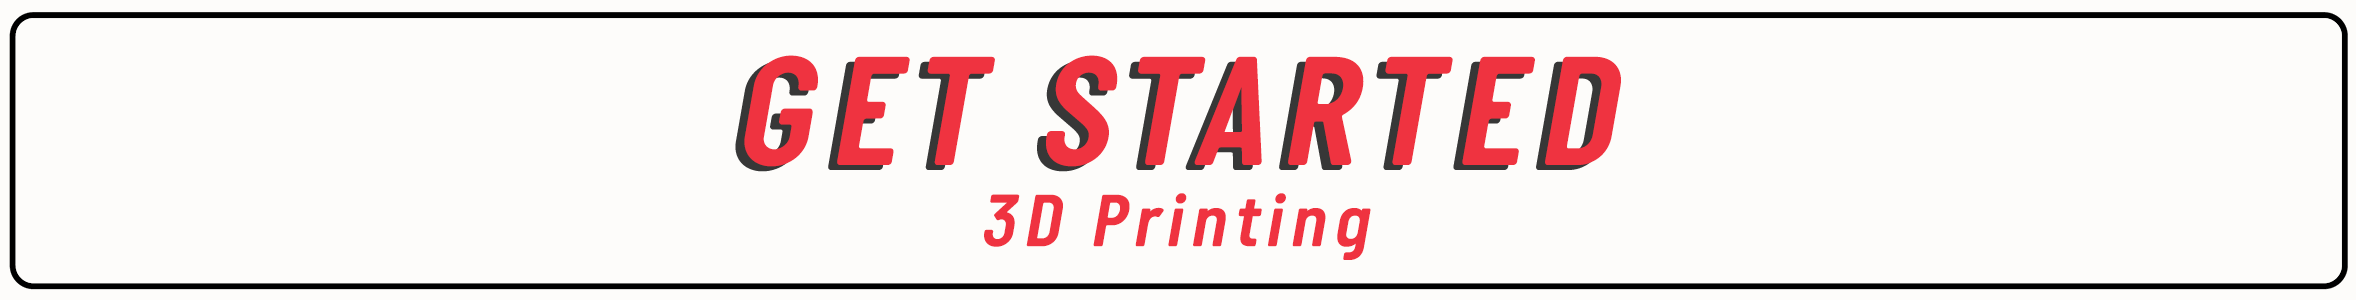
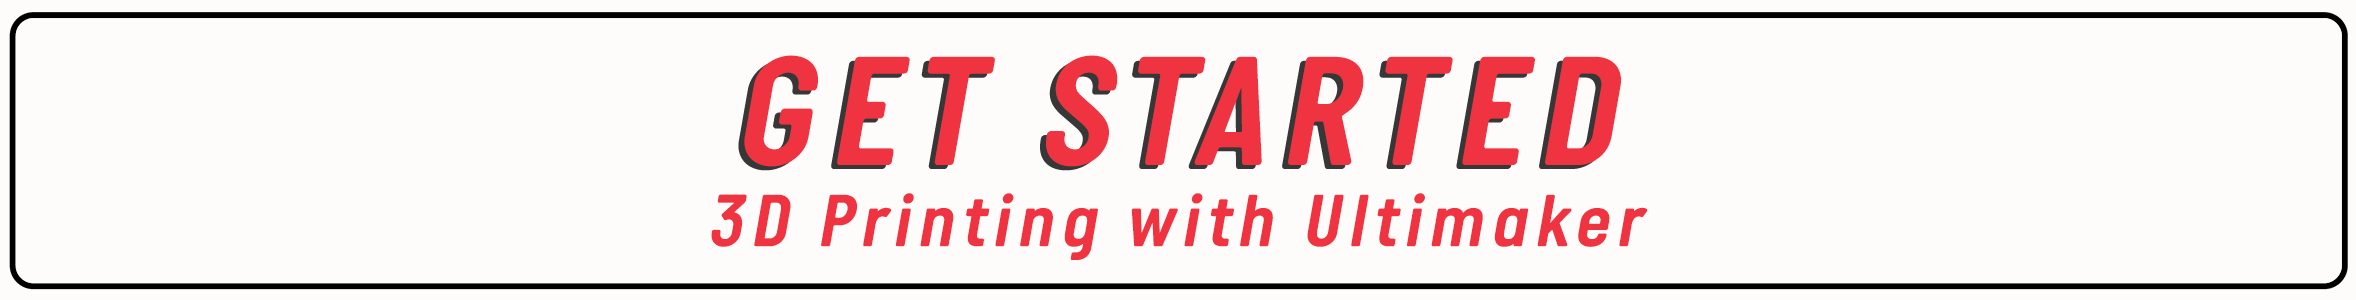
Updated with both 3d printer types

diff --git a/tutorial.html b/tutorial.html
@@ -352,7 +352,7 @@
                     
                     <div class="portfolio-item">
                         <a href="machinePage_Textile.html">
-                            <img class="img-portfolio img-responsive" src="./img/tutorial/getStarted_Textile.png">
+                            <img class="img-portfolio img-responsive" src="./img/tutorial/getStarted_Textil.png">
                         </a>
                     </div>
                     
@@ -394,10 +394,18 @@
                     <hr class="small">
                     
                     <div class="portfolio-item">
-                        <a href="machinePage_Laser.html">
+                        <a href="machinePage_3DPrint_Ultimaker.html">
                             <img class="img-portfolio img-responsive" src="./img/tutorial/getStarted_3DPrint.png">
                         </a>
                     </div>
+                    
+                    <div class="portfolio-item">
+                        <a href="machinePage_3DPrint_Gips.html">
+                            <img class="img-portfolio img-responsive" src="./img/tutorial/getStarted_3DPrint_Gips.png">
+                        </a>
+                    </div>
+                    
+                    
                     <div class="row">
                         <div class="col-sm-2">
                             <div class="portfolio-item">
